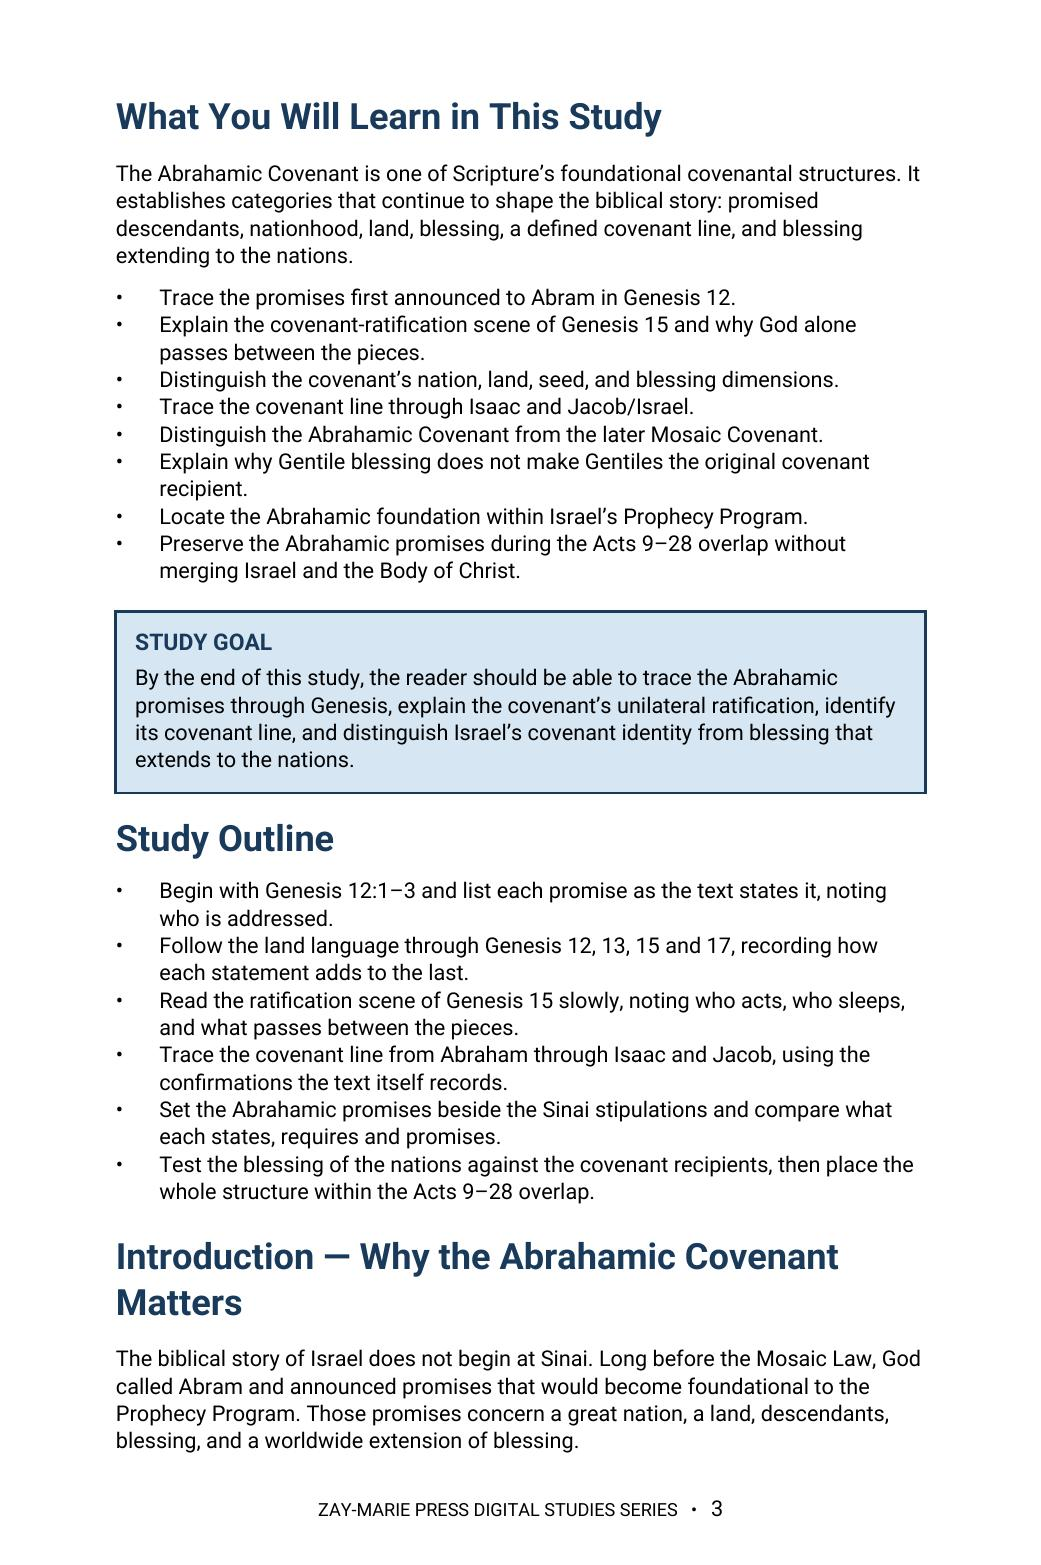
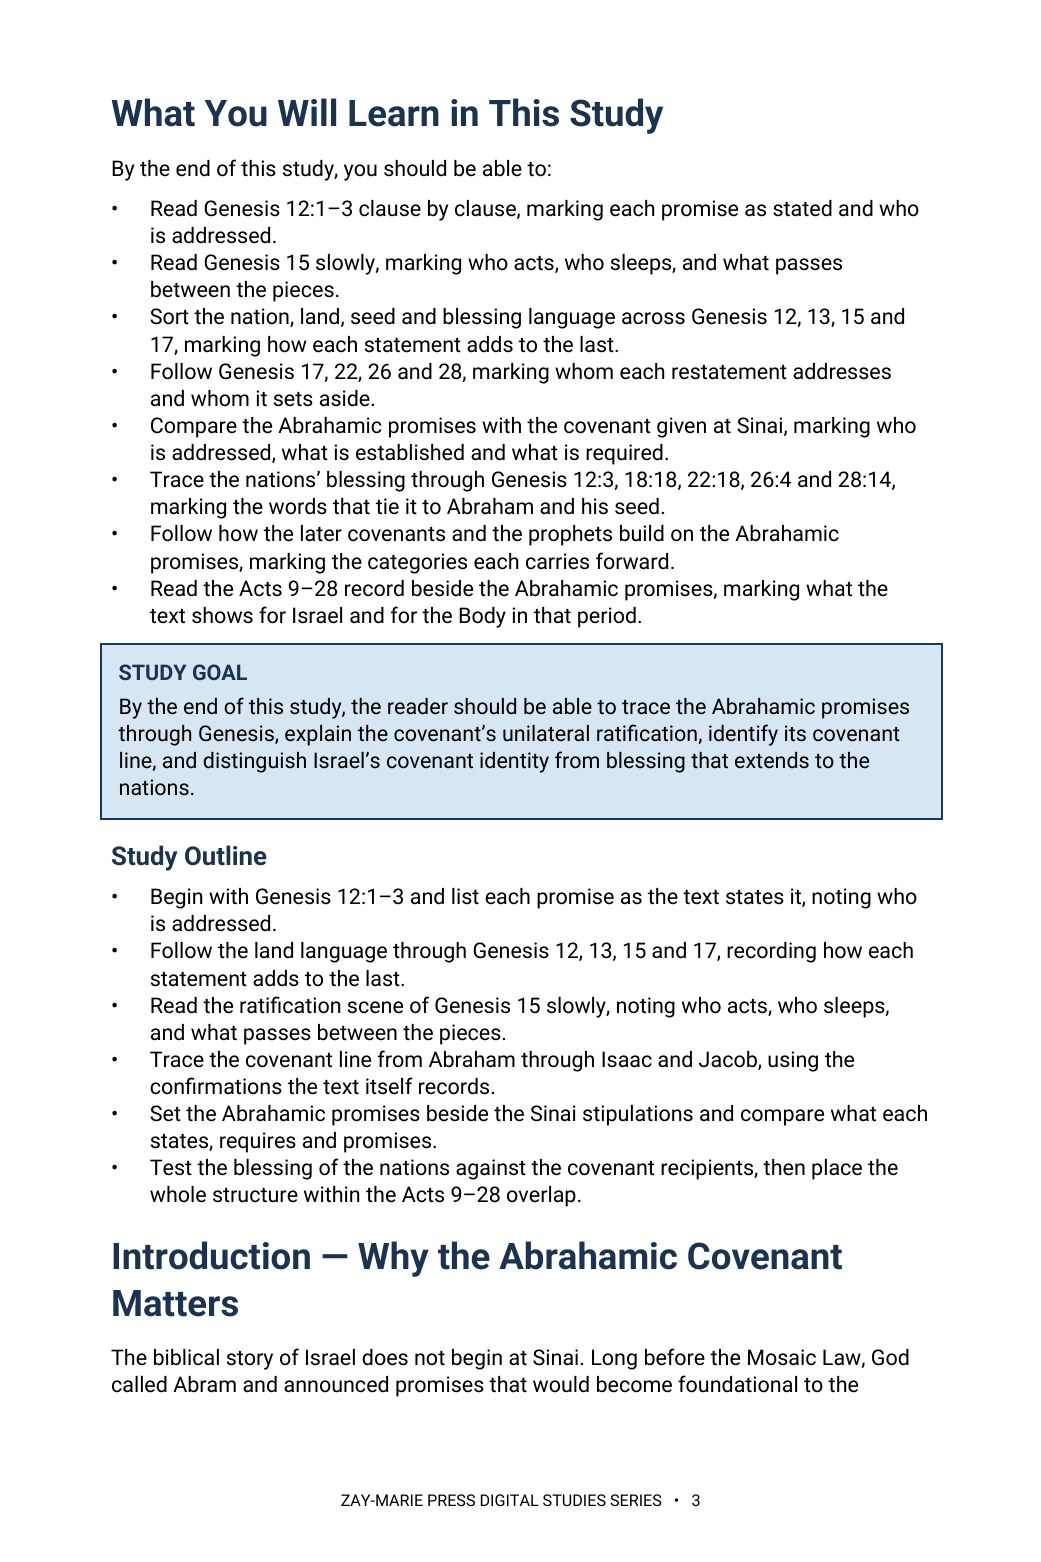
Study 17: rebuilt in Roboto 10 pt on current page (17 pages); previews 2, 3, 5 re-rendered; site.js 17:17; trackers v1.103/v1.197
Claude-Session: https://claude.ai/code/session_01HC7bs9KYP2scp4hCL6DkTp

Changed region(s): [[0.0922, 0.0615, 0.9222, 0.7682], [0.0922, 0.799, 0.8915, 0.9219], [0.3074, 0.9526, 0.6455, 0.9834]]

diff --git a/site.js b/site.js
@@ -62,7 +62,7 @@ const resourceModal=document.querySelector('#resource-modal'), resourceModalTitl
 if(resourceModal&&resourceModalTriggers.length){const closeResourceModal=()=>{resourceModal.hidden=true;document.body.classList.remove('resource-modal-open');lastResourceTrigger?.focus();};resourceModalTriggers.forEach(trigger=>trigger.addEventListener('click',()=>{lastResourceTrigger=trigger;if(resourceModalTitle)resourceModalTitle.textContent=trigger.dataset.title||'Resource';if(resourceModalDescription)resourceModalDescription.textContent=trigger.dataset.description||'';if(resourceModalLink){resourceModalLink.href=trigger.dataset.href||'#';resourceModalLink.textContent=trigger.dataset.linkText||'OPEN RESOURCE';}resourceModal.hidden=false;document.body.classList.add('resource-modal-open');resourceModalClose?.focus();}));resourceModalClose?.addEventListener('click',closeResourceModal);resourceModal.addEventListener('click',e=>{if(e.target===resourceModal)closeResourceModal();});document.addEventListener('keydown',e=>{if(e.key==='Escape'&&!resourceModal.hidden)closeResourceModal();});}
 
 /* Display the verified final-PDF page count at the primary purchase decision point. */
-const digitalStudyPageCounts={1:17,2:19,3:16,4:17,5:15,6:15,7:14,8:13,9:15,10:20,11:15,12:15,13:18,14:15,15:15,16:16,17:18,18:18,19:16,20:16,21:17,22:16,23:14,24:16,25:17,26:16,27:16,28:16,29:19,30:17,31:18,32:19,33:18,34:16,35:16,36:16,37:16,38:16,39:16,40:16,41:16,42:17,43:17,44:19,45:19,46:20,47:19,48:18,49:20,50:19,51:20,52:19,53:19,54:17,55:20,56:20,57:20,58:19,59:20,60:15,61:16,62:18,63:17,64:17,65:16,66:16,67:17,68:16,69:17,70:17,71:16};
+const digitalStudyPageCounts={1:17,2:19,3:16,4:17,5:15,6:15,7:14,8:13,9:15,10:20,11:15,12:15,13:18,14:15,15:15,16:16,17:17,18:18,19:16,20:16,21:17,22:16,23:14,24:16,25:17,26:16,27:16,28:16,29:19,30:17,31:18,32:19,33:18,34:16,35:16,36:16,37:16,38:16,39:16,40:16,41:16,42:17,43:17,44:19,45:19,46:20,47:19,48:18,49:20,50:19,51:20,52:19,53:19,54:17,55:20,56:20,57:20,58:19,59:20,60:15,61:16,62:18,63:17,64:17,65:16,66:16,67:17,68:16,69:17,70:17,71:16};
 const digitalStudyMatch=window.location.pathname.match(/\/study-(\d+)-/i);
 const digitalStudyFormat=document.querySelector('.detail-hero .detail-format');
 if(digitalStudyMatch&&digitalStudyFormat){const studyNumber=Number(digitalStudyMatch[1]),pageCount=digitalStudyPageCounts[studyNumber];if(pageCount)digitalStudyFormat.textContent=`Digital PDF · ${pageCount} Pages`;}

diff --git a/study-17-the-abrahamic-covenant.html b/study-17-the-abrahamic-covenant.html
@@ -528,7 +528,7 @@
           <h2>A Focused Study Built for<br />Understanding and Teaching</h2>
           <div class="includes-grid">
             <div class="include-item">
-              <h3>18-Page In-Depth Biblical Study</h3>
+              <h3>17-Page In-Depth Biblical Study</h3>
               <p>
                 A focused explanation of the believer’s identity in Christ and
                 the truths that establish it.
@@ -592,7 +592,7 @@
             <div>
               <div class="eyebrow">STUDY 17 · DIGITAL STUDY</div>
               <h2>The Abrahamic Covenant</h2>
-              <p>18-page digital PDF · For personal use</p>
+              <p>17-page digital PDF · For personal use</p>
             </div>
             <div class="final-offer">
               <div class="detail-price">$5.99</div>

diff --git a/CLAUDE.md b/CLAUDE.md
@@ -23,7 +23,7 @@ These are kept in the repo at `controlling-documents/` and are the current versi
 - As of v1.50 (publisher directive, 2026-10-03), the **What You Will Learn in This Study** section is always bulleted, never set as running paragraphs, written into this file in the same pass (Master Standard Section 3 item 4, Section 6 structure line, Section 22): a list of bullet points, each describing one process, textual marker or interpretive discipline the reader will practice (Section 17 still governs what they may say); at most one short lead-in line may stand above the bullets (for example, “By the end of this study, you should be able to:”); the Study Goal callout and the Study Outline keep their own forms. It governs every new study and every study rebuilt or retrofitted from now on; earlier studies take it when reopened or when the publisher directs. In every study check (Step 1), report whether the section is bulleted. First applied to Study 43.
 **`controlling-documents/Digital_Studies_Relationship_Map_v1.39.md`** — records each study's distinct subject, its related studies, the eight priced six-study collections, the Paul's Missionary Journeys cross-reference map, and the five primary catalog categories (currently version 1.39, covers Studies 1–71; update it as new studies publish, bump the version number, rename the file to match, and log the change in its own version-history table — mirroring the Master Standard's `_vX.Y` filename convention). Check a proposed topic against it before recommending or writing a new study. (2026-09-28: the file was missing from this repo despite this note referencing it; replaced from the publisher's copy and bumped v1.15→v1.25 in the same pass. If this note ever again points to a version not present under `controlling-documents/`, ask the publisher for a copy rather than proceeding without the check.)
 - **`controlling-documents/Digital_Studies_Category_Standard_v1.1.md`** — FINAL and binding (publisher, 2026-10-01): the rules for the five primary catalog categories (Foundations, Israel & Prophecy, Body of Christ, Passages, Doctrinal Themes), the ordered decision procedure for new studies, the precedents, all 71 fixed assignments, and the cover-label form for each category. Read it before placing any card or cover label. Do not ask the publisher where a study belongs; apply the procedure and state the result. Only the publisher changes a ruling; then bump this Standard's version and filename, re-letter the cover, and update the Relationship Map.
-- **`controlling-documents/Doctrinal_Upgrade_Retrofit_Plan_v1.102.md`** — working tracker for retrofitting Studies 1–59 to the 2026-10-02 doctrinal upgrade (Framework/PAM v1.1, Master Standard v1.40, Rules 7–17): withdrawn-wording search keys, impact tiers, waves and the per-study method. Read it before continuing the retrofit in any session; update status, bump the version and rename the file as work proceeds.
+- **`controlling-documents/Doctrinal_Upgrade_Retrofit_Plan_v1.103.md`** — working tracker for retrofitting Studies 1–59 to the 2026-10-02 doctrinal upgrade (Framework/PAM v1.1, Master Standard v1.40, Rules 7–17): withdrawn-wording search keys, impact tiers, waves and the per-study method. Read it before continuing the retrofit in any session; update status, bump the version and rename the file as work proceeds.
 - **`controlling-documents/Doctrinal_Packet_Standard_v0.3.md`** — Doctrinal Packet Standard (DRAFT; §7 approved). Governs the separate Doctrinal Packets product strand (5-page interpretive PDFs per Bible book — a print-friendly cover as page 1 plus 4 content pages, $2.99, KJV, pilot: Genesis, live at `packet-genesis.html`, hub `doctrinal-packets.html`; site pages say "5 Pages", cover styles live in `packets.css`, Old Testament blue and New Testament soft pale green, hub listed in Bible order). **Preview rule (publisher directive, 2026-09-29, packets only):** previews show about one page's worth in two cropped views (top of page 1 through the anchor texts; the chart section) — never the exegesis, architecture, Mystery contrast, logic chain, outline, or closing. Master Standard §16/§17 still govern Digital Studies. Bump the version and rename the file as the Standard is finalized.
 - **`controlling-documents/Preview_Page_Spoiler_Retrofit_Audit_v1.4.md`** — working tracker for the Studies 1–60 preview-page conclusion-spoiler retrofit (see the section below). Read it before continuing that audit in any session; update its status fields and changelog, bump the version, and rename the file to match as the audit proceeds — same `_vX.Y` convention as the other controlling documents. As of v1.1, the website-side half was DONE: all 60 studies' "What You'll Study" text was judged against the rule (methodology documented in the file) and 22 points across 11 studies were rewritten and pushed; an unrelated Study 22 content bug (Study 21's content had leaked into it) was also found and fixed. As of v1.2, the publisher supplied Studies 1–60's interior production PDFs and the interior-PDF half was also surveyed (read-only): 10 studies (37, 41, 45, 47, 48, 49, 51, 52, 53, 54) were found to have at least one interior "What You Will Learn" violation, 50 studies were confirmed compliant, and the orphaned `assets/study-45-sanctification-under-grace.docx` (removed from the repo per the publisher in v1.0) was confirmed word-for-word identical to Study 45's actual production interior PDF content. As of v1.3, the publisher supplied editable DOCX sources for all 10 violating studies; all 15 violating points were rewritten and approved, delivered as corrected final PDFs, and — along the way — a second defect was found and fixed (Studies 47 and 48's source DOCX still had an unintegrated cover placeholder despite both being long-published live with real covers; fixed by inserting the existing approved cover art). The website's "What You Will Learn" preview image (`study-NN-page-3.jpg`) was regenerated from the corrected content for all 10 studies and pushed to `main` (commit `cea1859`), verified against a fresh clone. **The website side of this audit is now fully compliant for all 60 studies.** Outstanding: the publisher's purchasable interior PDF files themselves have corrected versions delivered, but distribution to existing purchasers was decided by the publisher on 2026-09-29: silent swap of the files behind the existing downloads, no reissue notice (recorded in the v1.4 changelog entry; the product files are not in this repo).
 

diff --git a/controlling-documents/Doctrinal_Upgrade_Retrofit_Plan_v1.103.md b/controlling-documents/Doctrinal_Upgrade_Retrofit_Plan_v1.103.md
@@ -195,3 +195,4 @@ Working tracker for correcting published studies to the Framework/PAM v1.1, Mast
 - v1.100 (2026-10-04): Study 9 rebuilt in Roboto at 10 pt on the current page, 15 pages (was 16). Callouts 4 -> 5 (new 'Romans 11 Boundaries' callout, drafted from the standing rule wording; to be compared with Study 13 when that study is retrofitted); WYWL bullets 3, 4, 6, 7, 8 reworded; overlap, Rule 17 and Revelation sentences added; 'A Note on the Acts Overlap Framework' retitled 'A Note on the Acts Overlap' and framework wording removed. New cover (publisher artwork, 1024×1536, badge removed) replaces the earlier cover. Previews 2, 3 and 8 re-rendered at 1041×1562; site.js 9:15; study page 15 pages.
 - v1.101 (2026-10-04): Study 11 rebuilt in Roboto at 10 pt on the current page, 15 pages (was 15 on the old 432×648 page; page count unchanged). WYWL bullets 1, 3, 4, 7, 8 reworded to process lines; intro paragraphs removed; 'framework' wording removed from reader text (10 places); overlap, Rule 17, Cornelius and 1 Timothy sentences added; Acts 28 set as national suspension with no chronology; Teaching Outline numbered. Previews 2, 3 and 5 re-rendered at 1041×1562 (substantive preview moved from page 4 to page 5, relabelled Pentecost); site.js 11:15 unchanged.
 - v1.102 (2026-10-04): Study 13 rebuilt in Roboto at 10 pt on the current page, 18 pages (was 19 on the old 432×648 page). WYWL opening paragraph removed, lead-in added, seven bullets reworded to process lines; 'framework' wording removed (2); four boundaries, triad and 'Identity is fixed by divine program, not by metaphor' added in section 6; 'Salvation is come unto the Gentiles' line added; overlap and Rule 17 sentences added in section 9; Acts 28 national suspension with no chronology; Teaching Outline numbered. Previews 2, 3 and 5 re-rendered at 1041×1562; site.js 13:18; study page 18 pages. Study 9's Romans 11 callout left as drafted.
+- v1.103 (2026-10-04): Study 17 rebuilt in Roboto at 10 pt on the current page, 17 pages (was 18 on the old 432×648 page). WYWL opening paragraph removed, lead-in added, eight bullets reworded to process lines; 'framework' wording removed (2); Galatians 3 sentence added to section 7; overlap, Rule 17 and synagogue short-form sentences added to section 9; Acts 28 national suspension with no chronology (callout, outline, further study); Teaching Outline numbered; seven content tables kept. Previews 2, 3 and 5 re-rendered at 1041×1562 (page 5 still Genesis 12:1–3 phrase by phrase); site.js 17:17; study page 17 pages.

diff --git a/controlling-documents/Digital_Studies_PAM_Audit_v1.197.md b/controlling-documents/Digital_Studies_PAM_Audit_v1.197.md
@@ -426,3 +426,4 @@ Study 15 PDF not yet supplied. Typography: none of Studies 2, 3, 6, 8 is in EB G
 - v1.194 (2026-10-04): Study 9 rebuilt in Roboto at 10 pt on the current page from the publisher's DOCX, 15 pages (was 16; old 432×648 page retired); new cover from the publisher's artwork (badge removed). Changes: What You Will Learn as bullets under one lead-in (bullets 3, 4, 6, 7, 8 reworded to process lines); fifth callout 'Romans 11 Boundaries' added (full Romans 11 depth); overlap, Rule 17 and Revelation sentences added; resumption wording softened; 'framework' wording removed from reader text; arrows » (see Retrofit Plan v1.100).
 - v1.195 (2026-10-04): Study 11 rebuilt in Roboto at 10 pt on the current page, 15 pages; WYWL bullets reworded to process lines; 'framework' wording removed from reader text; overlap, Rule 17, Cornelius and 1 Timothy sentences added; Acts 28 national suspension, no chronology; Teaching Outline numbered (see Retrofit Plan v1.101).
 - v1.196 (2026-10-04): Study 13 rebuilt in Roboto at 10 pt on the current page, 18 pages; WYWL bullets reworded to process lines; four boundaries and triad added; overlap and Rule 17 sentences added; Acts 28 national suspension, no chronology; Teaching Outline numbered (see Retrofit Plan v1.102).
+- v1.197 (2026-10-04): Study 17 rebuilt in Roboto at 10 pt on the current page, 17 pages; WYWL bullets reworded to process lines; Galatians 3, overlap, Rule 17 and synagogue sentences added; Acts 28 national suspension, no chronology; Teaching Outline numbered (see Retrofit Plan v1.103).
